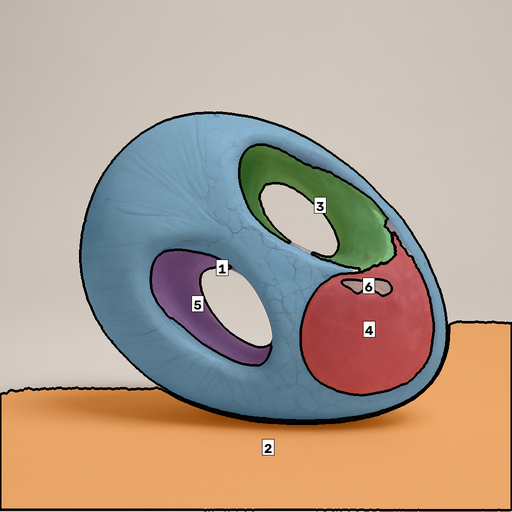
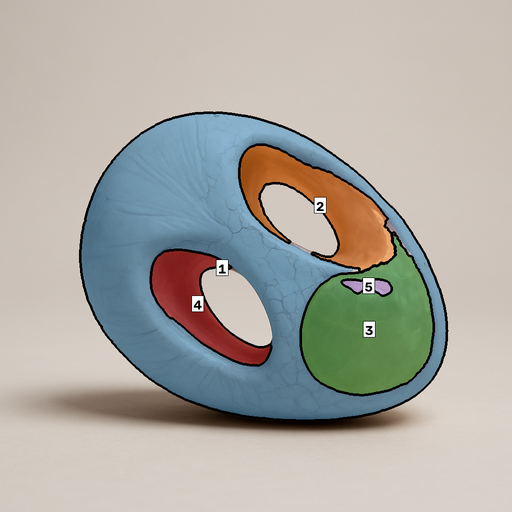
Changing regioning model

diff --git a/affordance-study/demo.js b/affordance-study/demo.js
@@ -202,9 +202,9 @@
     {
       object: "coffee-table",
       numbered_image: "images/coffee-table_numbered.png",
-      highlight_image: "images/coffee-table_highlight_part2.png",
-      part: 2,
-      n_parts: 8,
+      highlight_image: "images/coffee-table_highlight_part1.png",
+      part: 1,
+      n_parts: 7,
       chosen: ["hold", "sit on"],
       explanation:
         "This tabletop could <strong>hold</strong> things you set on it, and people also " +
@@ -214,9 +214,9 @@
     {
       object: "coffee-table",
       numbered_image: "images/coffee-table_numbered.png",
-      highlight_image: "images/coffee-table_highlight_part3.png",
-      part: 3,
-      n_parts: 8,
+      highlight_image: "images/coffee-table_highlight_part2.png",
+      part: 2,
+      n_parts: 7,
       chosen: ["hold"],
       explanation:
         "This lower shelf is mainly there to <strong>hold</strong> things like magazines or " +
